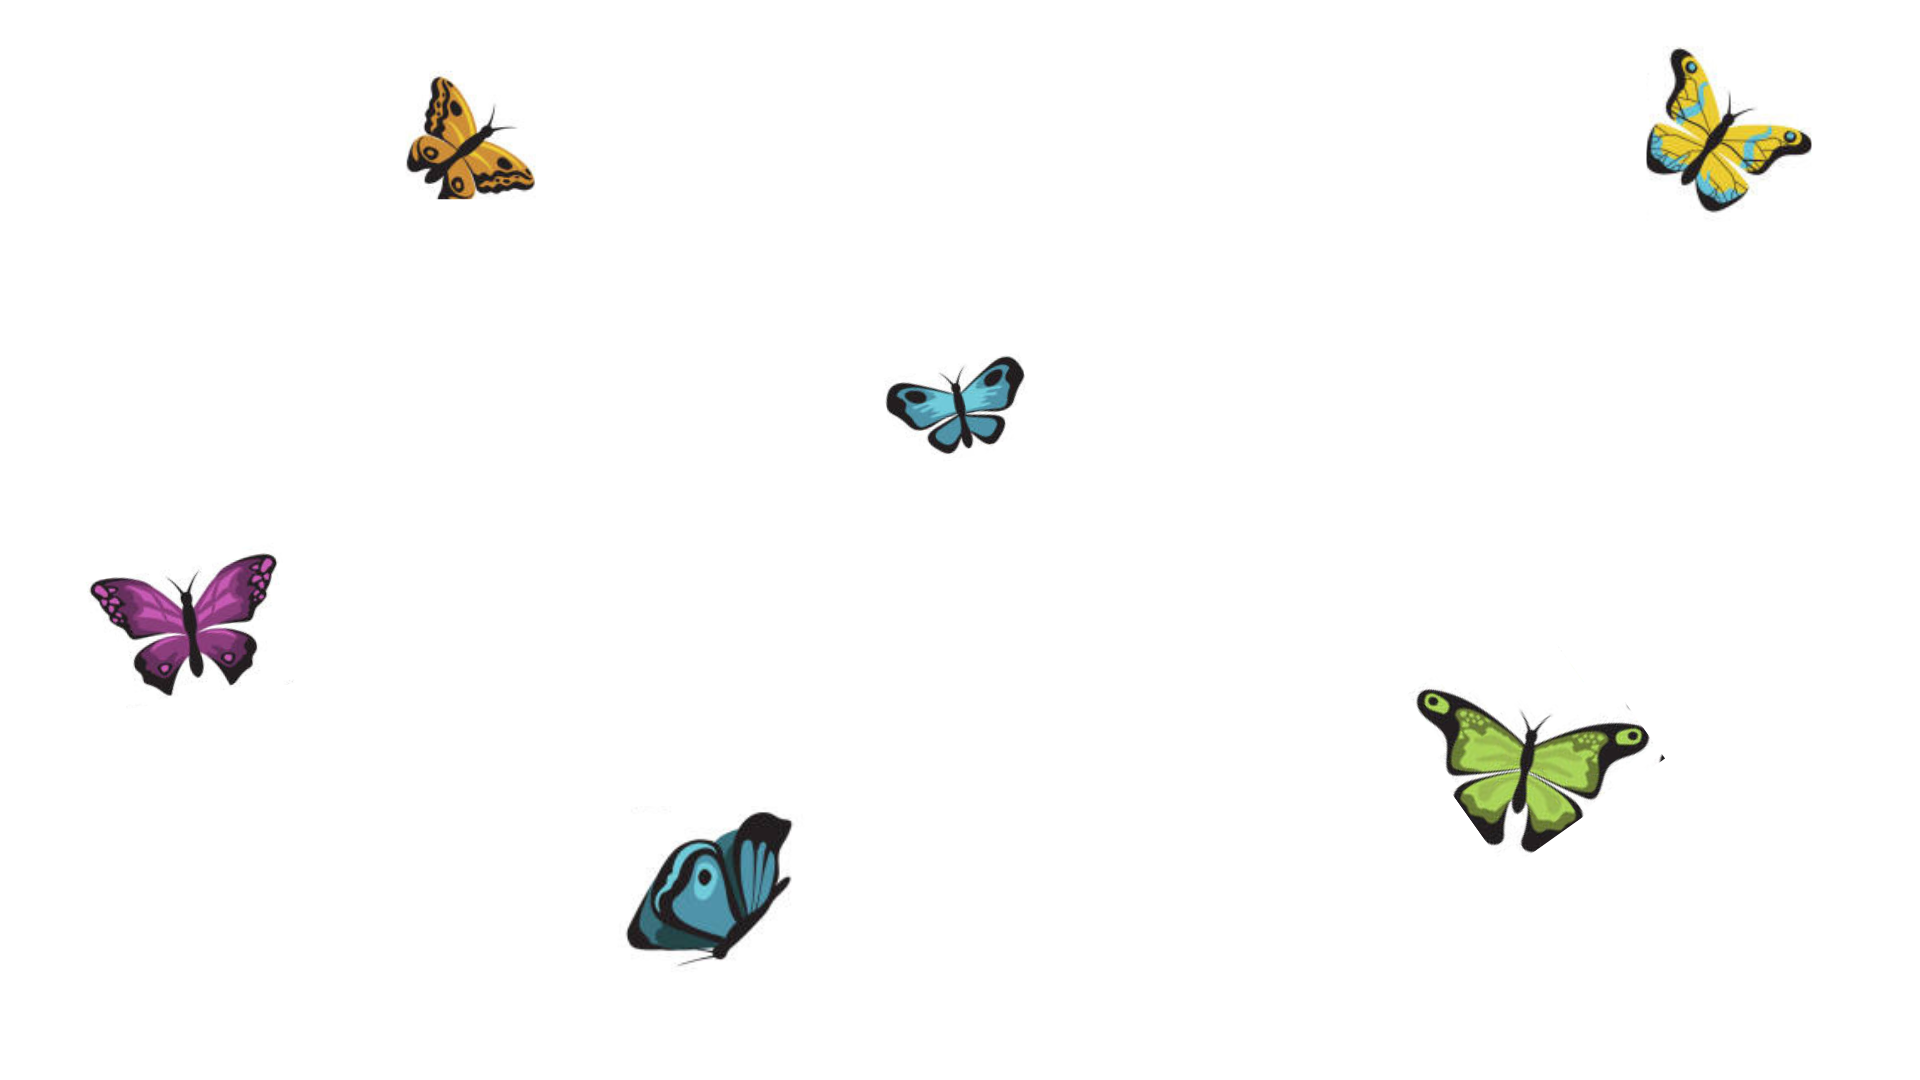
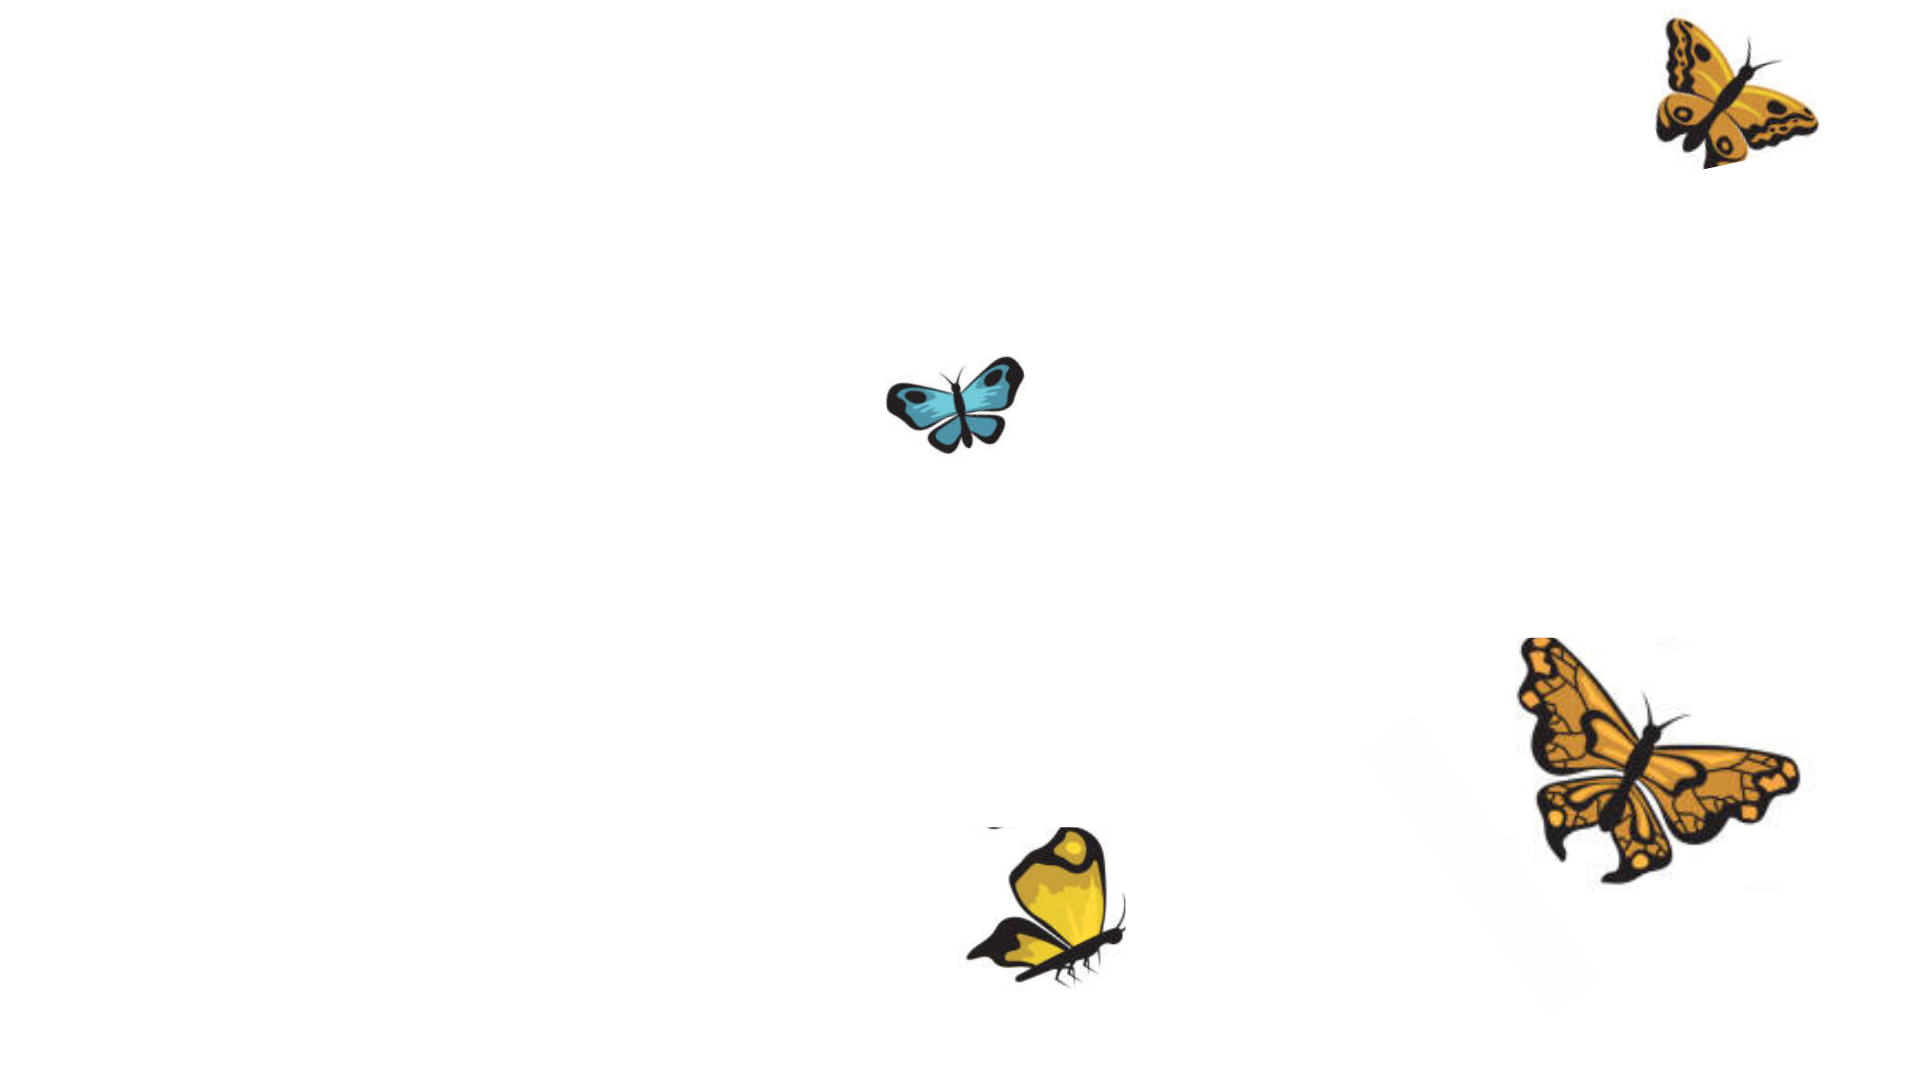
homepage completed with new color palette

diff --git a/style.css b/style.css
@@ -21,6 +21,7 @@ body{
 }
 ul{
     display: flex;
+    flex-wrap: wrap;
     list-style: none;
     padding: 0px;
     margin: 0px;
@@ -53,9 +54,9 @@ img{
 }
 
 .main-content{
+    background-color: #0F1626;
     padding-top: 100px;
     padding-bottom: 100px;
-    background-image: url("images/Butterfly\ Background.png");
     background-repeat: no-repeat;
     background-position: center;
     background-size: cover;
@@ -68,7 +69,7 @@ p{
     max-width: 100%;
     font-size: 20px;
     line-height: 170%;
-    color: black;
+    color: #f5f5f5;
 }
 
 .text-container{
@@ -81,25 +82,26 @@ p{
 }
 
 .buy-button{
+    font-weight: 800;
     font-size: 40px;
     display: flex;
     color: white;
-    background-color:#2a3166 ;
+    background-color: #ff533d; ;
     transition-duration: 0.4s;
     border-radius: 10px;
     padding: 10px;
 }
 
 .buy-button:hover{
-    border-color: #2a3166;
+    border-color: #ff533d;
     background-color: white;
-    color: #2a3166;
+    color: #ff533d;
 }
 
 .content-two{
     display: flex;
     align-content: space-between;
-    background-color: rgb(187, 184, 184);
+    background-color: #ab987acc;
     padding: 20px;
     text-align: center;
     flex-wrap: wrap;
@@ -145,7 +147,7 @@ p{
 
 h2{
     font-size: 40px;
-    color: #2a3166;
+    color: #0F1626;
     margin-bottom: 0px;
 }
 
@@ -153,8 +155,8 @@ h2{
     width: 100%;
     display: flex;
     justify-content: center;
-    color: white;
-    background-color: #2a3166;
+    color: #f5f5f5;
+    background-color: #0F1626;
     flex-wrap: wrap;
 }
 
@@ -164,22 +166,33 @@ a, a:visited{
 }
 
 .about-text{
-    color: #2a3166;
+    color: #0F1626;
 }
 
 .hero{
-    margin-top: 0px;
-    display: flex;
-    width: 100%;
     background-image:url("images/HeadshotTshirt-cropjpeg.jpg");
     background-position: center;
     background-repeat: no-repeat;
     background-size: cover;
     height: 750px;
+}
+.hero,.header{
+    margin-top: 0px;
+    display: flex;
+    width: 100%;
     padding-left: 16px;
     justify-content: space-between;
     color: white;
     flex-wrap: wrap;
+    background-color: #0F1626;
+}
+.header{
+    display: flex;
+    align-items: center;
+}
+
+.header h1{
+    font-size: 60px;
 }
 
 .header-img{
@@ -188,15 +201,18 @@ a, a:visited{
     height: auto;
 }
 
+
 h1{
     margin-top: 0px;
     padding-top: 16px;
     font-size: 80px;
     font-family: 'Cabin', sans-serif;
+    margin-bottom: 0px;
+    padding-bottom: 16px;
 }
 
 .header-links{
-    padding-top: 8px;
+    padding-top: 16px;
     padding-right: 8px;
 }
 
@@ -231,4 +247,13 @@ h1{
 .rights{
     color: white;
     font-size: 10px;
+}
+
+.divider{
+    background-image: url("images/Butterfly\ line.png");
+    background-position: center;
+    background-repeat: repeat;
+    background-size: cover;
+    height: 100px;
+    width: 100%;
 }

diff --git a/books.html b/books.html
@@ -6,15 +6,20 @@
     <meta name="viewport" content="width=device-width, initial-scale=1.0">
     <title>Books</title>
     <link rel="stylesheet" href="style.css">
+    <link rel="stylesheet" href="https://unpkg.com/modern-normalize@1.1.0/modern-normalize.css">
+    <link rel="stylesheet" href="style.css">
+    <link rel="preconnect" href="https://fonts.googleapis.com">
+    <link rel="preconnect" href="https://fonts.gstatic.com" crossorigin>
+    <link href="https://fonts.googleapis.com/css2?family=Montserrat&display=swap" rel="stylesheet">
+<link href="https://fonts.googleapis.com/css2?family=Cabin:wght@600&display=swap" rel="stylesheet">
 </head>
 <body>
     <div class="header">
-        <ul class="left-links">
+        <h1>Chris D'Souza</h1>
+        <ul class="header-links">
             <li><a href="index.html">Home</a></li>
             <li><a href="books.html">Books</a></li>
             <li><a href="lecture.html">Book a Lecture/Programme</a></li>
-        </ul>
-        <ul class="right-links">
             <li><a href="testimonial.html">Testimonial</a></li>
             <li><a href="songs.html">Song</a></li>
             <li><a href="contact.html">Contact</a></li>

diff --git a/index.html b/index.html
@@ -15,7 +15,6 @@
 
 </head>
 <body>
-    <div class="header">
         <div class="hero">
             <div class="header-top">
                 <h1>Chris D'Souza</h1>
